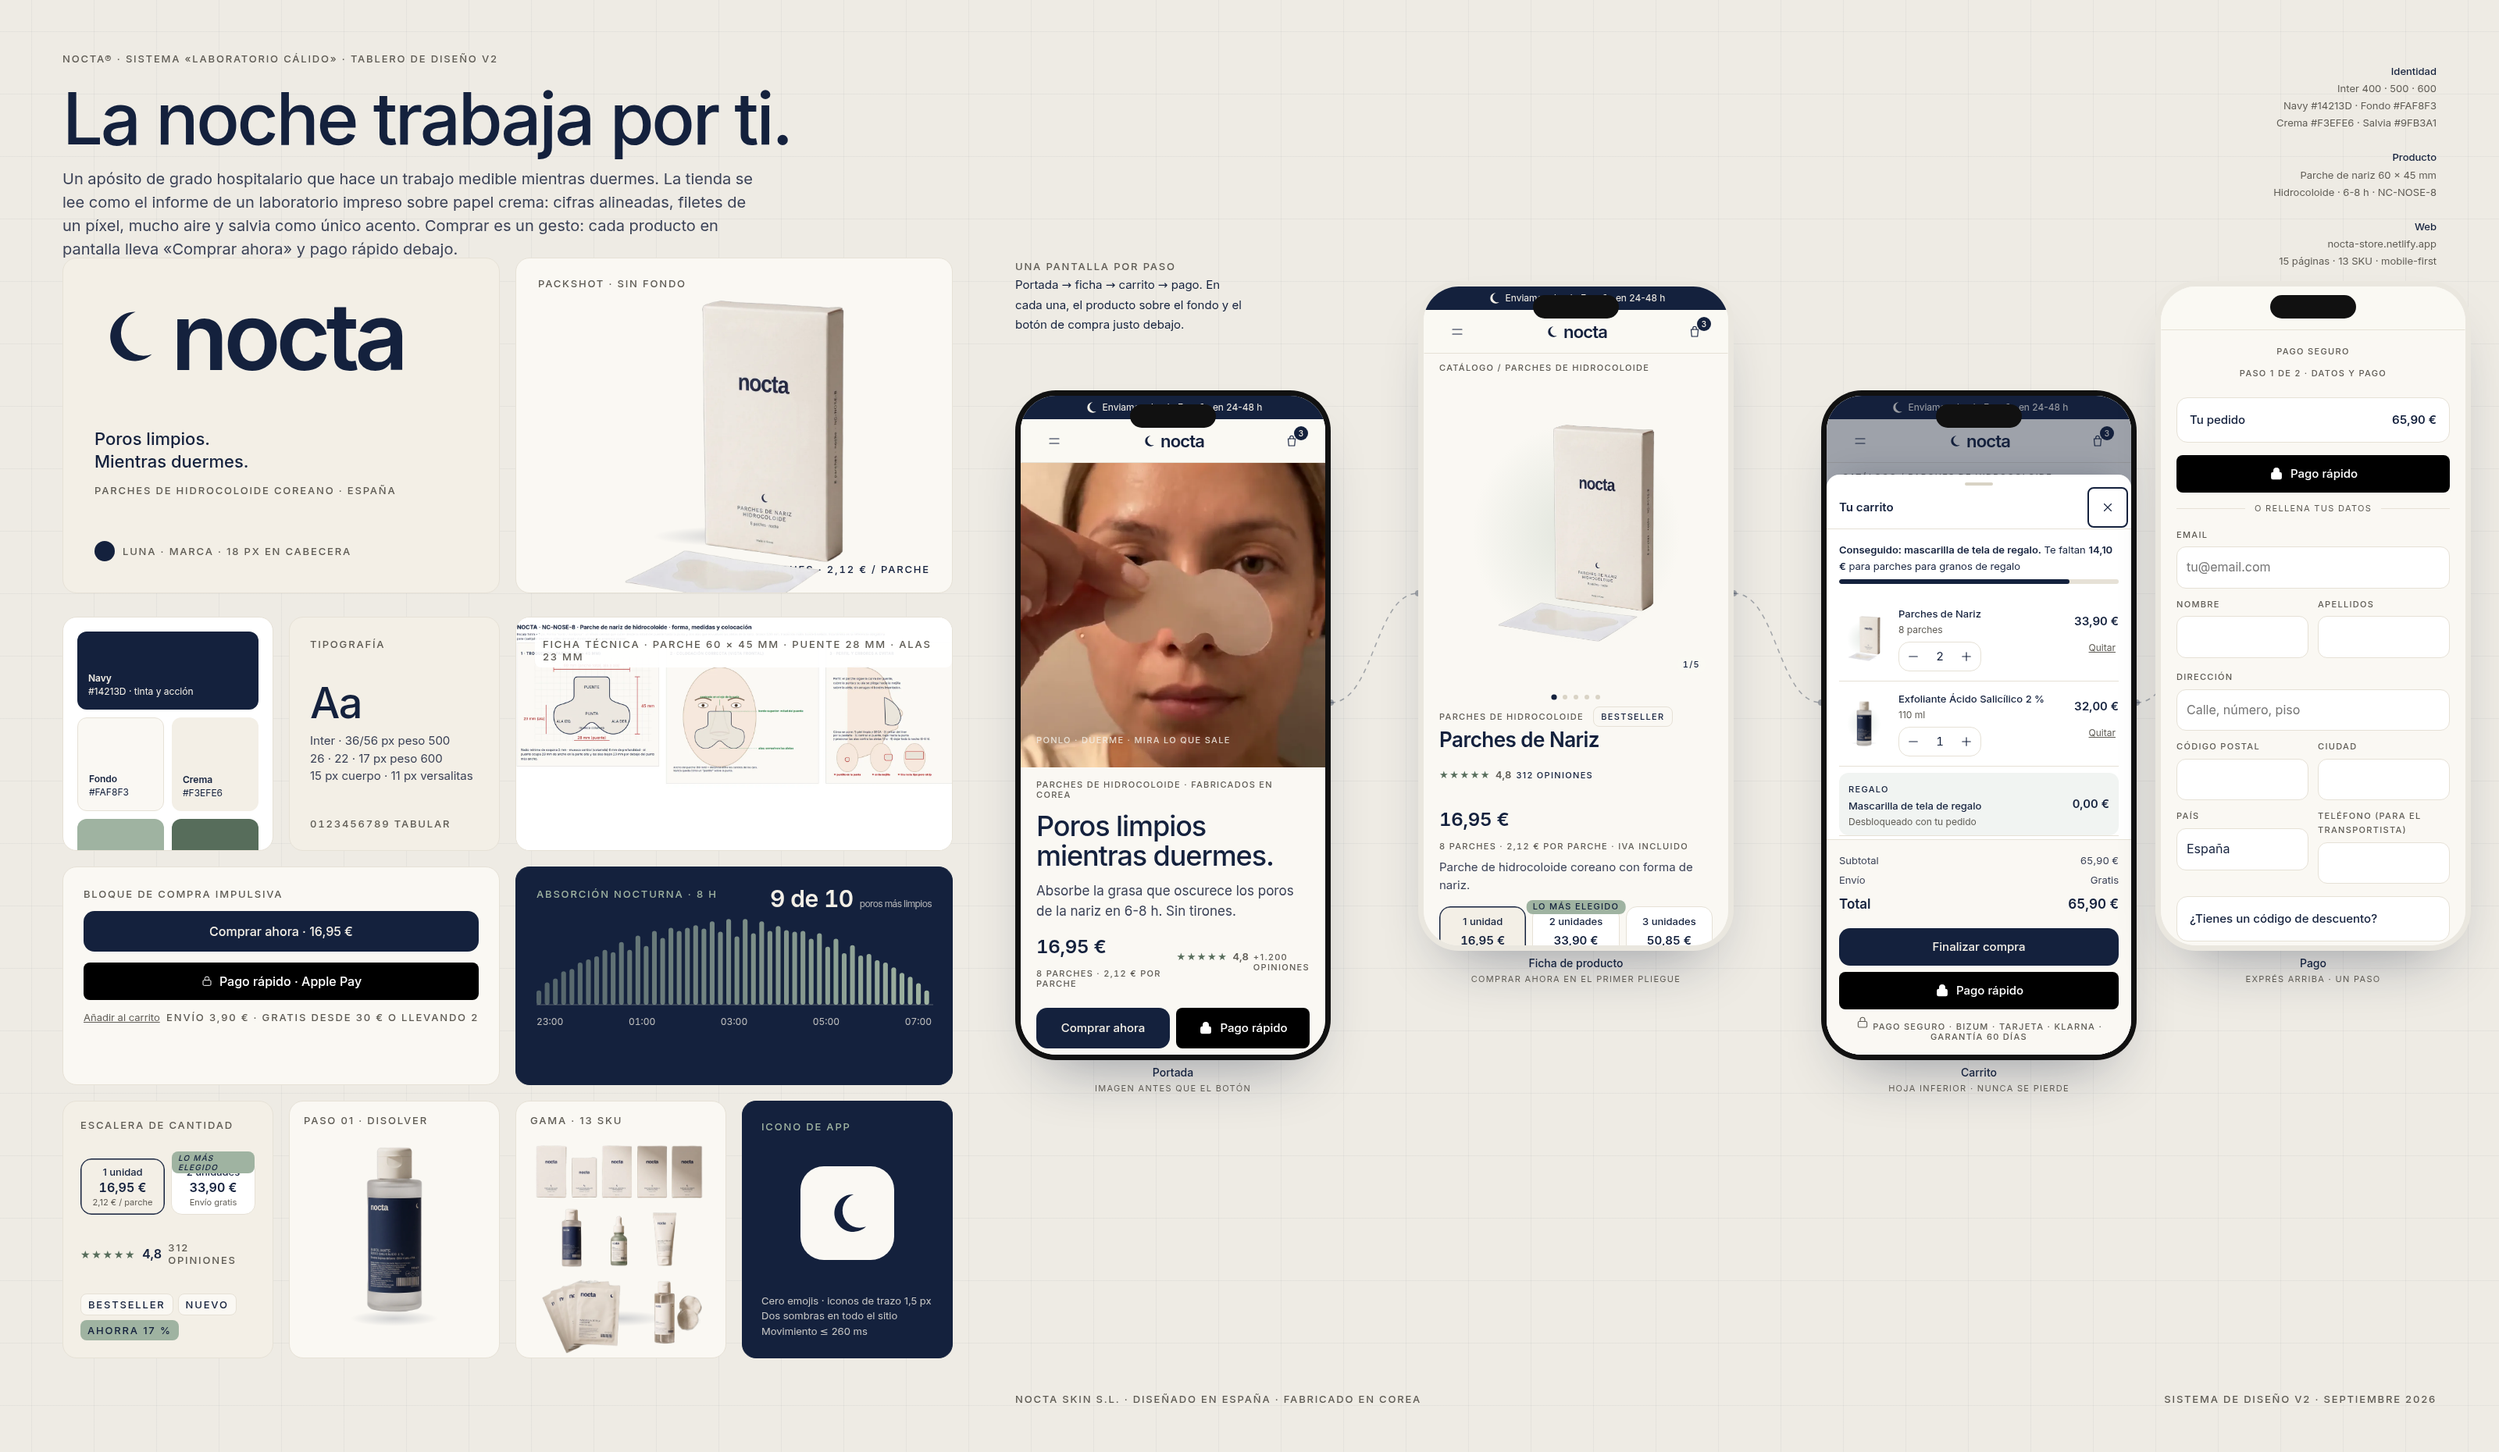
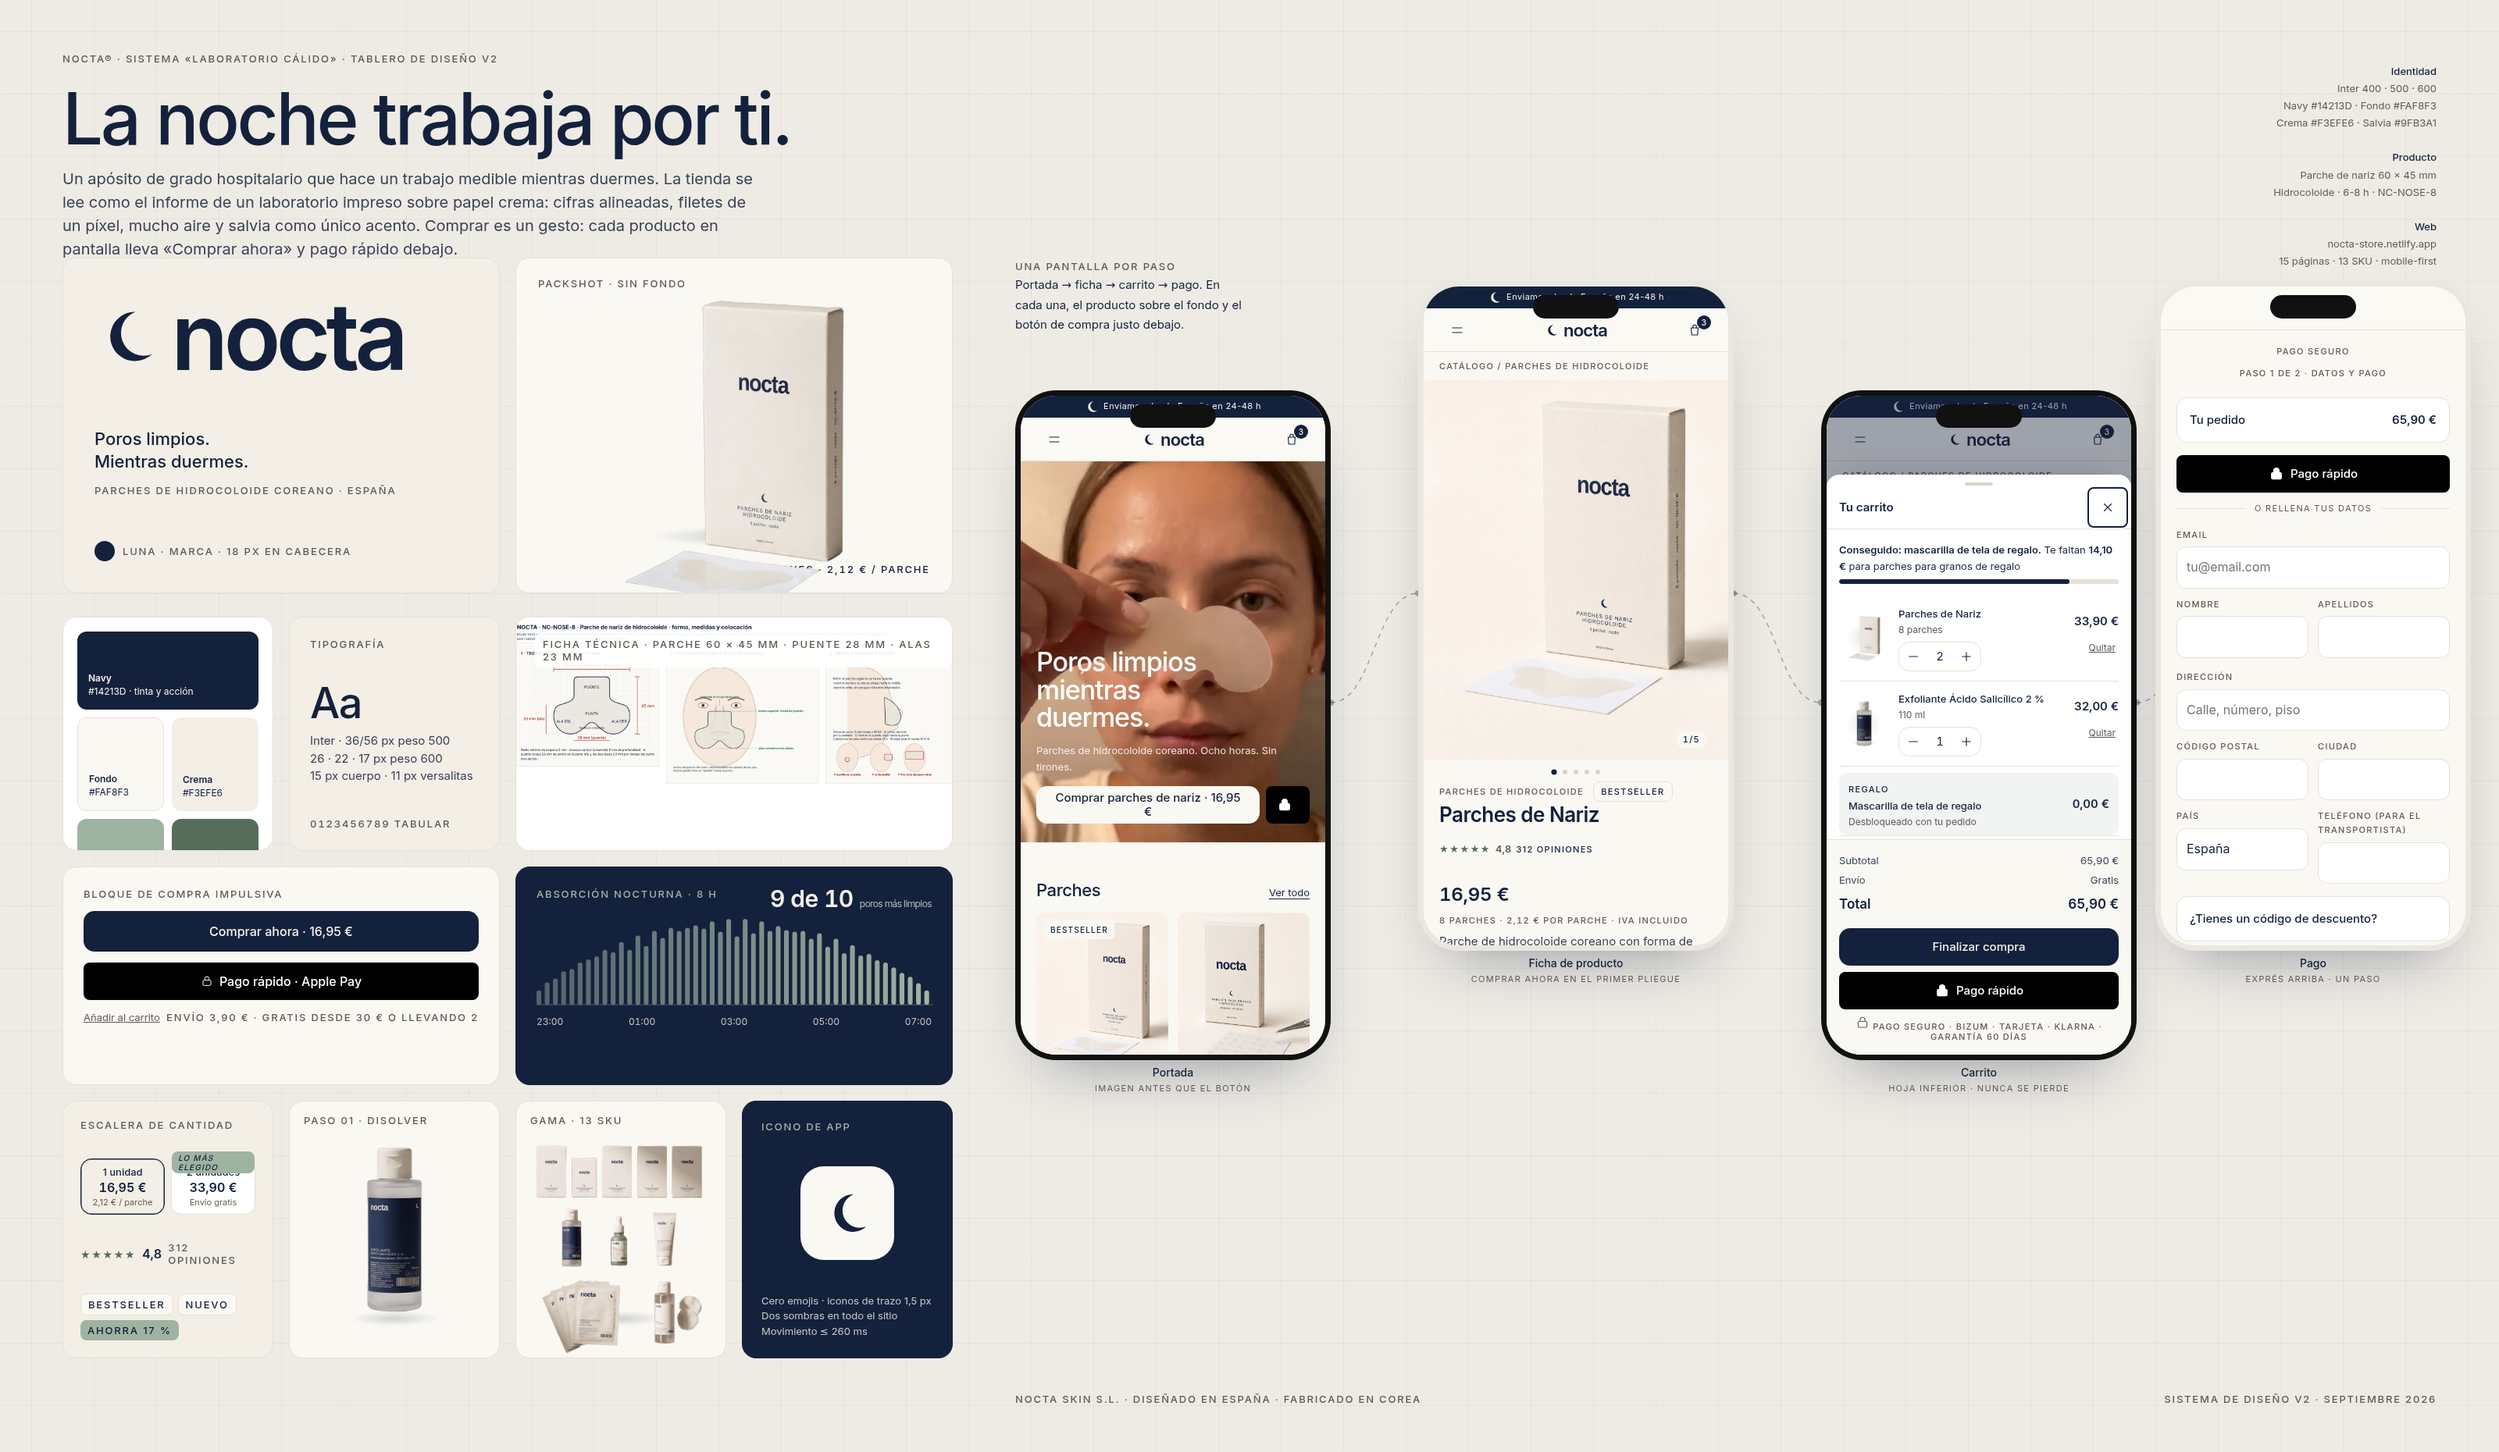
NOCTA: tablero regenerado, README y QA con la sesión de fotografía v4
Claude-Session: https://claude.ai/code/session_01CWYmnawf6cciJkk3MdKiVa

diff --git a/nocta/brand/qa/control_calidad_imagenes.md b/nocta/brand/qa/control_calidad_imagenes.md
@@ -104,3 +104,18 @@ Método: los 12 `*-cut.webp` compuestos sobre fondo navy (#14213D) al 100 % en l
 Fotos lifestyle: `como-se-pone` y `lifestyle-noche` correctas y coherentes con el packaging crema. `unboxing` **retirada de la web** (cajas navy con texto en inglés «NOSE PATCHES · pore strips», incoherentes con el packaging real); sustituida por `lifestyle-noche` en `sobre.html` y en la galería del Kit Cara Completa. Pendiente: regenerar un unboxing con las cajas crema reales si se quiere recuperar esa foto.
 
 Vídeos de catálogo (10): fotogramas a 2,5 s revisados, producto y etiquetas correctos, fondo beige de estudio uniforme.
+
+
+## Sesión de fotografía GPT Image 2 (7 sep 2026)
+
+Modelo `gpt_image_2` en Higgsfield, 4K, aspecto 3:4 (flat-lay 4:3), fondo crema #F3EFE6 continuo, luz difusa superior izquierda, referencia = recorte del packaging real. Test A/B de calidad: «medium» (2,5 cr) vs «high» (11 cr) sobre el packshot de nariz; la diferencia no es apreciable a tamaño web, se produjo todo en «medium».
+
+| Imagen | Resultado | Notas |
+|---|---|---|
+| 13 packshots (10 productos + duo, kit zona T, kit cara completa) | aprobados | packaging fiel (wordmark, luna, textos, referencia lateral); composición coherente entre SKU |
+| 12 detail shots | aprobados | rejilla de parches con pinzas, cada forma levantada de su lámina, chorro del exfoliante, gota del sérum, gel, mascarilla, gotas del tónico |
+| `kit-t-zone-detalle` (tres parches en lámina) | **no usada en web** | la forma del parche de nariz no coincide con nuestro troquel (mariposa 60 × 45 mm); se sustituye por el detalle del parche de nariz |
+| `hero-mano` (mano con caja) | aprobada | galería de la ficha del parche de nariz |
+| `gama-flatlay` | aprobada con reserva | los sobres de mascarilla muestran variantes de texto («2 variantes», «4 variantes») que no existen en el packaging; usar solo a tamaño reducido |
+
+Coste: 76 créditos. Saldo tras la sesión: 260,43.

diff --git a/nocta/README.md b/nocta/README.md
@@ -41,6 +41,12 @@ Rediseño completo mobile-first de la tienda (misma URL, mismos endpoints y even
 - La ficha de los parches de nariz incorpora los tres vídeos y el resultado por la mañana. Recortes compuestos nuevos para Dúo Poros y Kit Zona T.
 - Activos: `web/public/assets/video/hero.mp4`, `paso-1..3.mp4`, `ugc-1.mp4`, `ugc-2.mp4`; `img/hero-poster.webp`, `paso-*.webp`, `ugc-*.webp`, `resultado-manana.webp`, `duo-poros-cut.webp`, `kit-t-zone-cut.webp`.
 
+### v4 «clean» (7 sep 2026, tarde): fotografía GPT Image 2 en 4K y diseño rhode / Skims / Vue
+- **Fotografía de producto nueva**: 13 packshots (10 productos + 3 packs) y 12 detail shots generados con GPT Image 2 a 4K (calidad medium, 2,5 cr cada uno) usando como referencia nuestro packaging real, más «mano con caja» para hero y flat-lay de la gama. Originales 4K en `brand/fotos/4k/` (JPEG q92), versiones web en `web/public/assets/img/foto/` (1200 y 1800 px WebP). Mapa slug → fotos en `web/public/assets/js/photos.js`.
+- **Diseño**: hero a sangre con vídeo y una sola acción (Comprar + pago rápido), rejilla de producto tipo rhode (foto en tile crema, detalle al pasar el ratón, nombre, precio, Comprar + pago rápido), editorial a sangre, tres pasos en vídeo, resultado con cifras, packs, vídeos con sonido, opiniones con filetes, garantía tipográfica, FAQ. Sin marquee, sin bandas, sin numeración de secciones.
+- Ficha: galería con foto principal, detalle, vídeo, mano con caja y lifestyle; catálogo con la misma rejilla.
+- Créditos Higgsfield de la sesión de fotos: 76 (1 test en «high» a 11 cr + 26 imágenes en «medium» a 2,5 cr). Saldo 260,43.
+
 ## Cómo desplegar la web (Netlify, 10 minutos)
 
 1. `cd nocta/web && npm install` (solo `@netlify/blobs`).
